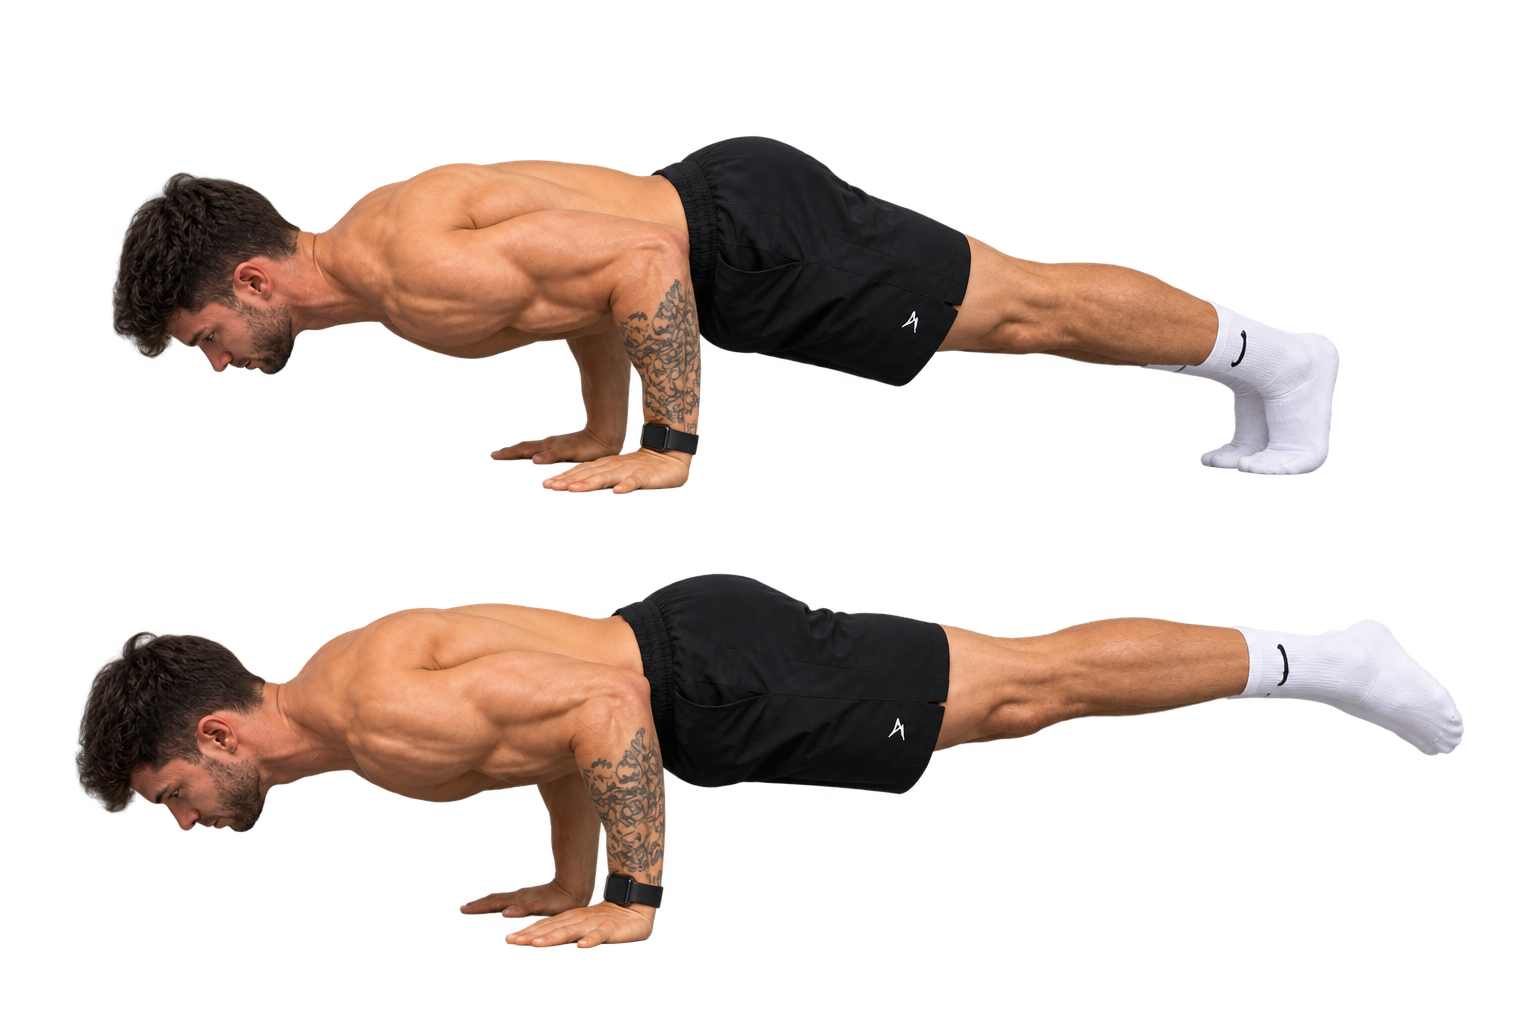
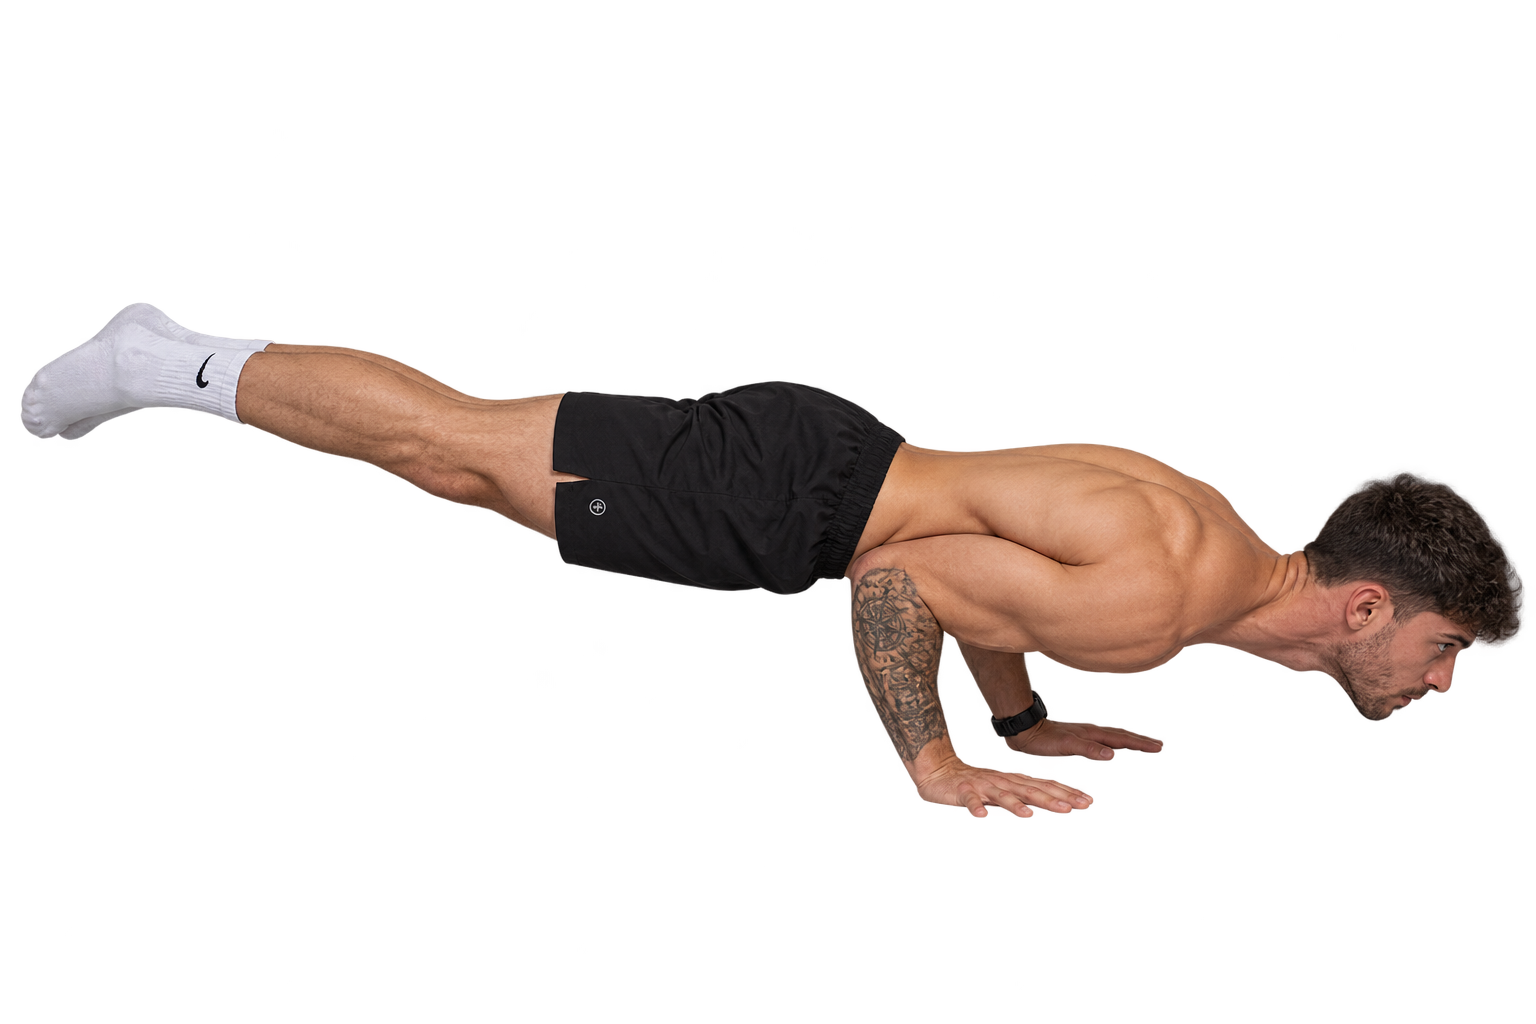
mas relaciones

diff --git a/src/app/features/tree/data/tree.mock.ts b/src/app/features/tree/data/tree.mock.ts
@@ -96,7 +96,7 @@ export const EXERCISES: Exercise[] = [
   },
   {
     id: 'bent-arm-planche',
-    name: 'Bent Arm Planche',
+    name: 'Elbow Lever',
     difficulty: 'intermediate',
     graphLevel: 2,
     muscles: [],
@@ -189,11 +189,12 @@ export const EXERCISES: Exercise[] = [
   },
   {
     id: 'one-arm-bent-planche',
-    name: 'One Arm Bent Planche',
+    name: 'One Arm Elbow Lever',
     difficulty: 'intermediate',
     graphLevel: 3,
     muscles: [],
     equipment: [],
+    imageUrl: '/images/exercises/one-arm-elbow-lever.png',
   },
   {
     id: 'back-lever',
@@ -435,6 +436,7 @@ export const EXERCISES: Exercise[] = [
     graphLevel: 7,
     muscles: [],
     equipment: [],
+    imageUrl: '/images/exercises/caruso.png',
   },
   {
     id: 'inverted-butterfly',
@@ -478,6 +480,7 @@ export const EXERCISES: Exercise[] = [
     graphLevel: 7,
     muscles: [],
     equipment: [],
+    imageUrl: '/images/exercises/pelican.png',
   },
   {
     id: 'zanetti',
@@ -486,6 +489,7 @@ export const EXERCISES: Exercise[] = [
     graphLevel: 7,
     muscles: [],
     equipment: [],
+    imageUrl: '/images/exercises/zanetti.png',
   },
   {
     id: 'inverted-cross',
